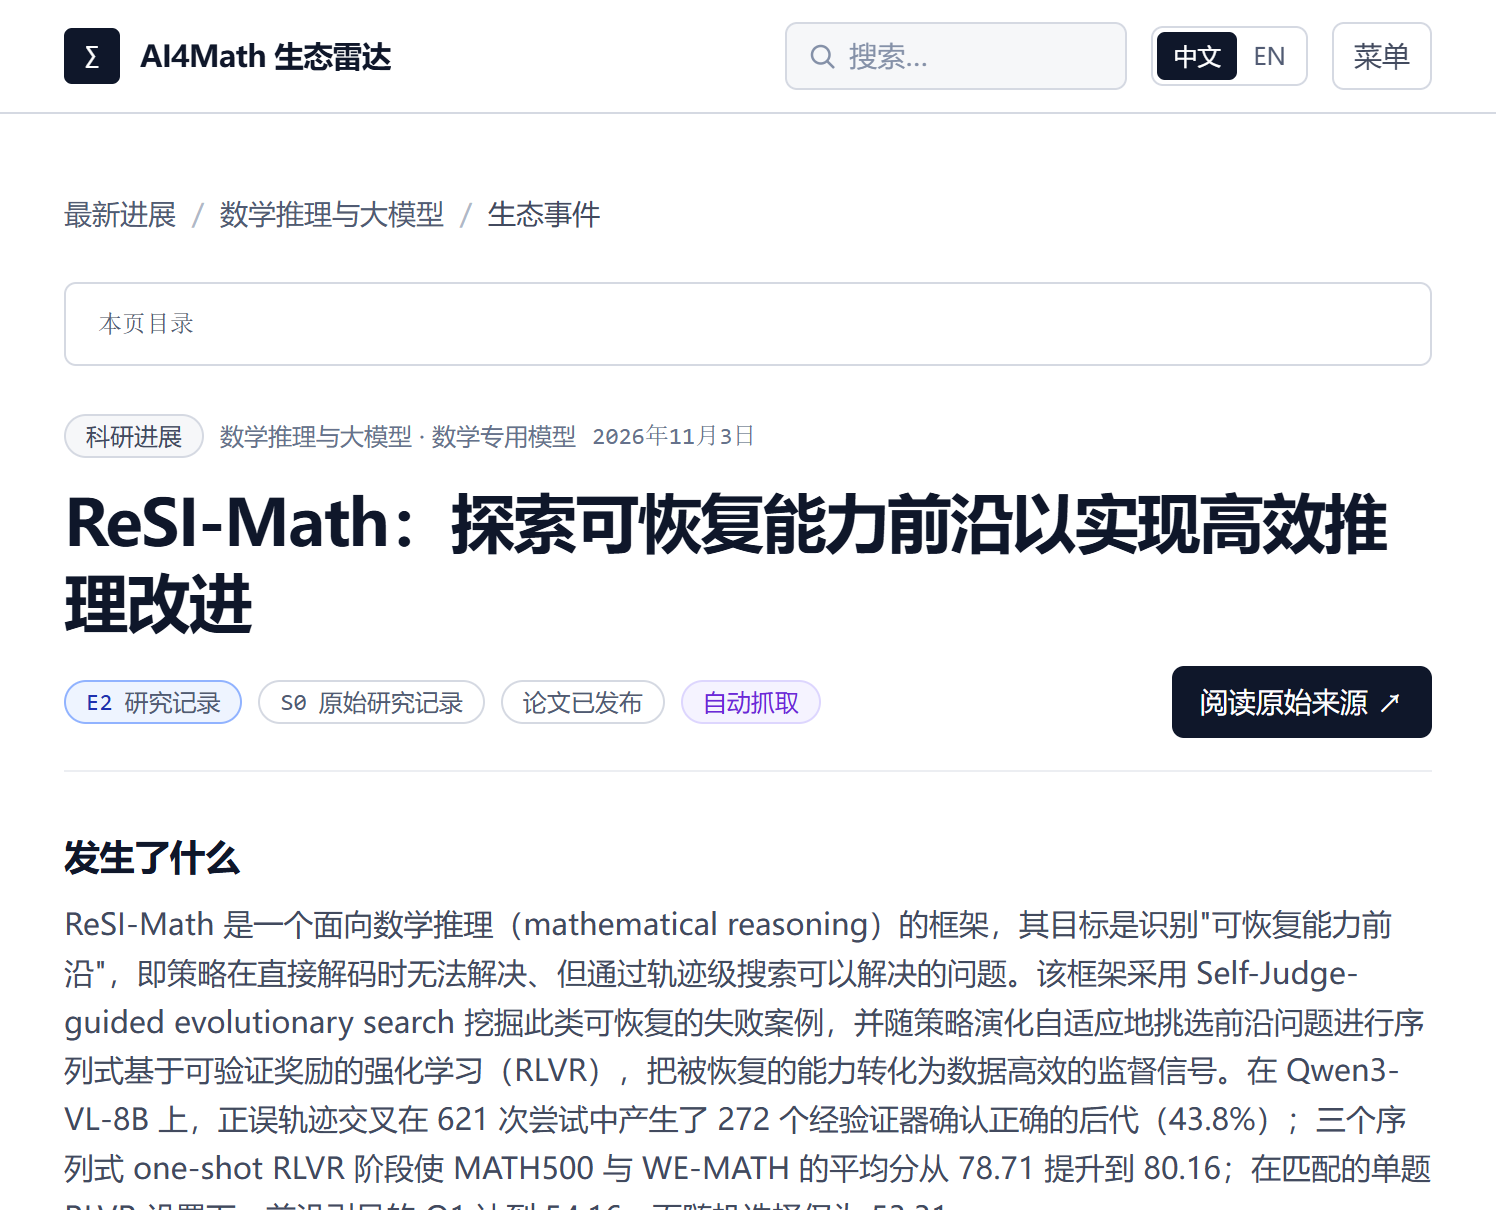
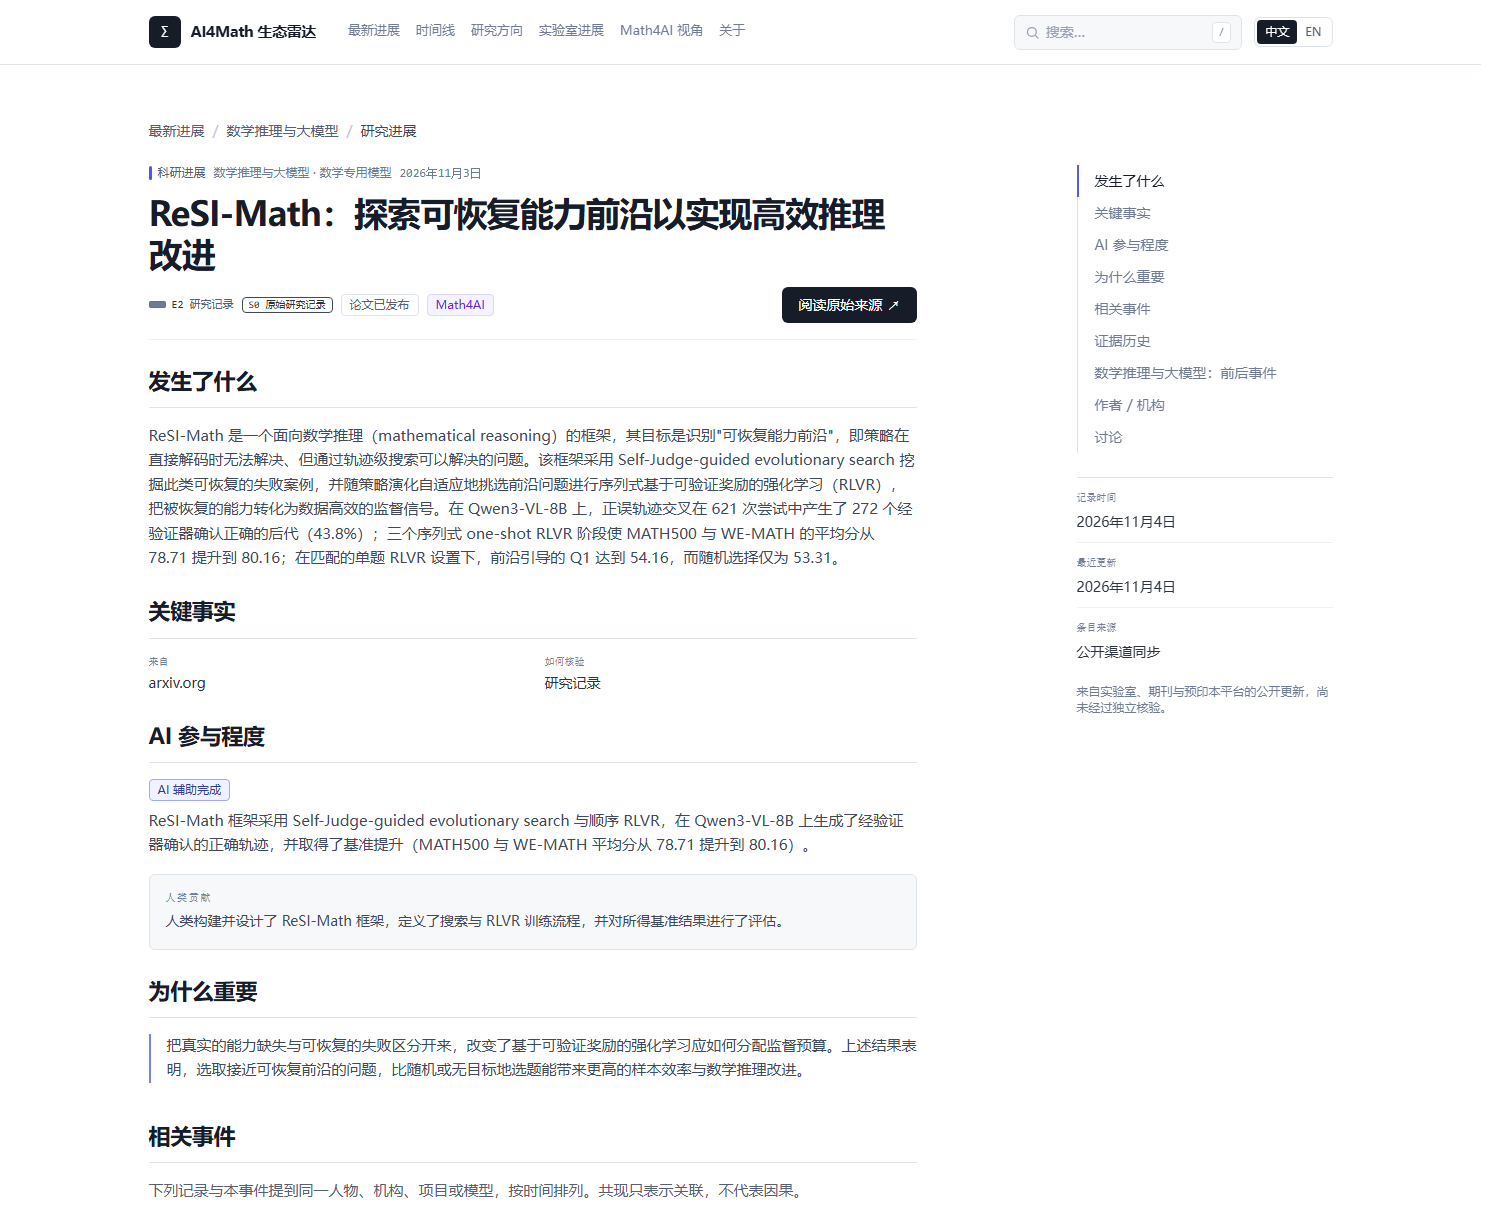
docs: refresh screenshots, figures and weekly report
Re-shoot home, timeline and detail at 1496x1210; README now reports 714
events (583 ingested), the live Pages link, AI involvement and four lab
tracks. Add the 2026-11-13 weekly report.

diff --git a/docs/weekly-report-2026-11-13.md b/docs/weekly-report-2026-11-13.md
@@ -1,0 +1,78 @@
+# AI4Math 周报（2026 年 11 月 9 日—11 月 13 日）
+
+## 一、AI4Math 生态雷达
+
+[项目地址（Gitee）](https://gitee.com/testimoa/ai4math-radar)，分支为 `main`；线上站点为
+<https://irrelaceable.github.io/ai4math-radar/>（GitHub Pages，含 `/labs`）。
+
+本周完成方向轴与引用脉络上线、实验室研究档案发布、全站体检与采集扩量，并把 Gitee 追平 GitHub；
+首页改版、截图与 README 更新已完成，尚未提交。
+
+| 任务 | 负责人 | 结果 |
+| --- | --- | --- |
+| 方向轴与引用脉络上线 | 雷（IRrelaceable） | 详情页新增「引用关系」（前作 / 后续，由 OpenAlex 参考文献回填）与「相关事件」两章；方向轴 ai4math / math4ai / 双向兼有上线，方向徽章对称标注。提交 `7a95410`。 |
+| 方向轴复核与存量清理 | 雷（IRrelaceable） | **552 条科研事件全部判定，改判 153 条（28%）**；按优先级回源 150 条，金标准定判写入 **21 条**。报告存于 `docs/direction-*-2026-11-09.*`。 |
+| 实验室研究档案 | 雷（IRrelaceable） | `/labs` 上线 **52 条**前沿实验室档案（2020–2026，**116 个原始来源链接**），按 OpenAI / Anthropic / 联合 / 独立四轨归属、按年分组；档案独立建模，不并入事件数据集；新增 `records.test.ts` 校验。提交 `baf8cb1`。 |
+| 采集扩量与来源适配 | 雷（IRrelaceable） | 新增 sitemap 适配，无 feed 的站点也能采集；采集源加入指数退避（6h → 48h）；本周自动采集把数据集从 **685 条扩到 714 条（+29）**，其中 583 条由采集管线自动收录。 |
+| 全站体检与发布配置 | 雷（IRrelaceable） | 中英文字典键一致性改为编译期校验；站点绝对地址与 favicon 按部署子路径自动推导；`/sources`、`/research-map` 改为直达；360px 页头与英文站横向溢出修复；切换语言保留筛选与紧凑视图（提交 `8f7ee71`）。 |
+| 读者可见性整改 | 雷（IRrelaceable） | 档案页与详情页 **23 处**运维 / 编辑措辞改为读者语言，核查原文收进折叠，英文站不再展示未翻译中文；讨论区保持不可用占位。 |
+| Gitee 同步 | 雷（IRrelaceable） | 发现 Gitee 落后 GitHub **22 个提交**，已快进推送到 `4ac67ec`，本地、GitHub、Gitee 三者一致。 |
+
+已修复的问题：
+
+| 问题 | 修复人 | 结果或记录 |
+| --- | --- | --- |
+| GitHub 自动采集只落在 GitHub，Gitee 长期落后 | 雷 | 已补齐 22 个提交至 `4ac67ec`；自动镜像方案待评估。 |
+| 详情页面包屑不区分事件类型 | 雷 | 按研究方向区分「研究进展 / 生态事件」，已上线。 |
+| 英文站事件卡与相关事件列表横向溢出；360px 页头溢出 | 雷 | 卡片网格基础列改为 `minmax(0,1fr)`，手机端只显示字标。 |
+| 切换语言后筛选条件与紧凑视图被重置 | 雷 | 已保留原状态，提交 `8f7ee71`。 |
+
+本周完成、尚未提交：
+
+| 任务 | 负责人 | 结果 |
+| --- | --- | --- |
+| 首页封面式改版 | 雷（IRrelaceable） | 首页改为封面式报头（两段式标题、右侧总量与方向计数、顶部更新日期），类别构成改为报头下方横条，其后依次为双线最新动态、活跃方向与 90 天动量模块；本地 1496×1210 实测。 |
+| 截图与 README 同步 | 雷（IRrelaceable） | 重拍首页、时间线、详情三张 1496×1210 截图；README 数据更新为 **714 条 / 583 条自动收录**，补线上站点、AI 参与程度与四轨归属表述。 |
+| 仓库清理 | 雷（IRrelaceable） | 本地生成物从 2.8 GB 清理到 868 MB；删除 5 个已完成的一次性修复脚本与 3 个无引用类型导出；typecheck 通过，25 个测试文件共 189 项全部通过。 |
+
+本周未完成：
+
+- 方向轴剩余约 350 条事件待额度恢复后继续复核；
+- Gitee 尚无自动镜像，暂由手动推送同步；
+- 首页改版与文档、清理改动仍待提交。
+
+## 二、上下文压缩与模型接入
+
+围绕“两个高斯混沌之和的定量四阶矩界”，完成压缩技术调研、汇报材料和一轮实跑，继续排查长期卡住的原因。
+
+| 任务 | 负责人 | 结果 |
+| --- | --- | --- |
+| 整理压缩技术并制作汇报材料 | 成家旭 | 梳理科研界的文本压缩、推理状态压缩、外部记忆及 KV 缓存压缩，以及 OpenAI、Anthropic 的长任务处理方式；完成 **25 页 PPT、逐页讲稿和资料索引**。 |
+| 实现并测试 128K 压缩方案 | 成家旭 | 在 Gitee GLM-5.3 上实现“原题常驻、逐字摘录、外部原文库、按需回读”，保存原文位置和校验信息；完成 **83 项程序检查**，验证摘录与实际输入一致。 |
+| 核查压缩后的续解效果 | 成家旭 | 发现正确的局部恒等式和反例，但核心混合项估计仍未完成；同时查到摘要遗漏推导依赖、反复重证基础结论等问题。**本轮尚无完整解答通过核验**，不能把卡点全部归因于 128K。 |
+| 排查内部 GLM 网关访问 | 成家旭 | 核对网络连通和带认证的 API 请求，结合 IT 反馈确认办公网络不在允许访问区域；已明确需使用获准区域的服务器，内部接口尚未打通。 |
+
+## 三、TAG 与裸 API 数学对照实验
+
+使用硅基流动 GLM-5.3，从此前卡住的同一道题开始。题目分解、推导和自审由参测模型完成，成家旭负责实验接入、记录、故障排查及独立核验。
+
+| 任务 | 负责人 | 结果 |
+| --- | --- | --- |
+| 搭建两组对照流程 | 成家旭 | 接入 TAG 原生任务图和裸 API，统一模型、题目与评价规则；按最新要求，仅比较数学结果，系统失败单独记录，不计数学错误。 |
+| 建立运行与资源记录 | 成家旭 | 保存实际请求、分段输出、token、耗时及异常，隔离两组材料，避免答案互相影响；复用已完成响应时单独记账，避免重复调用和费用统计。 |
+| 核查接口容量与 token 口径 | 成家旭 | 确认硅基流动接口实际接受约 **19.5 万输入 tokens**，尚未测得最大上下文；区分输入窗口、输出额度和思考 token，避免沿用旧平台的 128K 限制判断。 |
+| 独立检查裸 API 答卷 | 成家旭 | 裸组在断流后使用自身材料续接，产出完整答卷；独立核验发现核心估计存在反例，判定**该份证明错误**，不等于原命题错误。 |
+| 排查并修复 TAG 兼容问题 | 成家旭 | 修复思考 token 被误计入正文额度、目标审查拒绝时异常处理报错两类问题，并完成离线验证；修改放在隔离副本中，保留原始程序和运行记录。 |
+| 跟进 TAG 解题与最新故障 | 成家旭 | 新计划已通过 TAG 内部目标与一致性审查，进入首个子任务；最新输出因达到 **8192 正文 tokens** 被截断，未形成完整答卷。已保存现场并准备续接方案，修复尚未完成，当前不能判断 TAG 是否优于裸 API。 |
+
+## 四、下周计划
+
+| 任务 | 负责人 | 预期结果 |
+| --- | --- | --- |
+| 提交并发布本周改动 | 雷（IRrelaceable） | 首页改版、三张截图、README 与仓库清理进入 `main`，同步 GitHub Pages 与 Gitee。 |
+| 继续生态雷达采集与复核 | 雷（IRrelaceable） | 自动采集按 6 小时节奏继续扩量；额度恢复后补齐剩余约 350 条方向轴复核。 |
+| 评估 Gitee 自动镜像 | 雷（IRrelaceable） | 给出 GitHub → Gitee 自动同步方案和配置步骤，避免再次出现长时间落后。 |
+| 完成 TAG 截断恢复 | 成家旭 | 完善输出格式提示和续接流程，离线验证后继续已有任务，避免从头重跑和重复计费。 |
+| 完成同题数学结果对照 | 成家旭 | TAG 交卷后独立核验，与已封存的裸 API 答卷比较；分别报告数学正确性、交付情况、token 和耗时。 |
+| 补做压缩效果对照 | 成家旭 | 对比“最近推导保留全文”和“最近推导也压缩”两种方式，检查关键条件、纠错和证明依赖的保留情况。 |
+| 完善报告并推进后续测试 | 成家旭 | 补齐单题报告中的模型自主分解、证明产物、资源记录和核验结论；满足当前轮次停止或推进条件后，再按既定顺序测试后续题目及模型。 |

diff --git a/README.en.md b/README.en.md
@@ -7,7 +7,7 @@
 Turning progress scattered across arXiv, conference proceedings, lab blogs, university news
 and foundation announcements into one filterable, traceable, navigable timeline.
 
-**English** · [中文](README.md) · [Weekly updates](project_management.md)
+**English** · [中文](README.md) · [Weekly updates](project_management.md) · [Live site](https://irrelaceable.github.io/ai4math-radar/)
 
 [![Next.js](https://img.shields.io/badge/Next.js-14.2-000000?logo=nextdotjs&logoColor=white)](https://nextjs.org/)
 [![React](https://img.shields.io/badge/React-18-61DAFB?logo=react&logoColor=black)](https://react.dev/)
@@ -34,7 +34,7 @@ into a single dataset. Every event keeps its original source link, evidence leve
 verification record. Filter by area, class, time or evidence level, or follow a field on
 the timeline to see how it got here.
 
-Current dataset: **685 events** (558 collected automatically by the ingest pipeline), dating back to **1956**, across **6 research areas**.
+Current dataset: **714 events** (583 collected automatically by the ingest pipeline), dating back to **1956**, across **6 research areas**.
 
 ## Design principles
 
@@ -72,7 +72,7 @@ fields stay empty; items without a confirmable source URL are dropped.
 | Feed | `/latest` | Class / area / time / evidence / tier filters, search, card and compact views |
 | Timeline | `/timeline` | Year-by-year density overview and class mix; the three newest months open by default, sparse years open fully, dense months group by day; search, deep links, class filter |
 | Areas | `/topics` · `/topics/[topic]` | Direction-axis mix, 12-month trend, sub areas and latest records for six areas; detail pages add trends, papers, models, benchmarks and events |
-| Event detail | `/research/[slug]` | What happened, key facts, evidence and status, related events, plus **citation links** and **related events** as separate sections |
+| Event detail | `/research/[slug]` | What happened, key facts, AI involvement, evidence and status, related events, plus **citation links** and **related events** as separate sections |
 | Search | `/search` | Results grouped by event, paper, area, model and benchmark |
 | Lab track | `/labs` | 52 frontier-lab archive records (2020–2026, grouped by year, filterable by OpenAI / Anthropic / joint / independent attribution; four batch-sample entries are tagged and counted once; each shows its result and source links, and the Chinese site keeps the verbatim verification notes behind a disclosure), plus recent lab updates below |
 | Math4AI entry | `/math4ai` | Direction-axis feed: events where mathematics is the method or theory and the object is the AI system (co-primary included) |
@@ -101,10 +101,10 @@ several records share one paper URL (entries 14–17 all come from `arXiv:2511.1
 and 45–48 are samples of the same 722-manuscript batch), so URL-based deduplication
 would silently drop them. Archive records cross-link to site events citing the same
 source; recent lab updates are listed separately below. **The public view shows date, attribution, result and source links**, with record counts, year grouping and an attribution filter; the editorial conventions and collection mechanism are not reader-facing. Every archive entry and every event page also carries a discussion slot that is not open yet.
-The archive distinguishes in-house work, third-party use of a lab's models,
-collaborations, independent evaluations and later independent follow-ups;
-"manuscript claims", "candidate proof" and "under review" do not mean independent
-verification. `records.test.ts` guards the dataset's integrity.
+The archive groups records into four tracks — OpenAI-related, Anthropic-related, joint,
+and independent third-party evaluation; "manuscript claims", "candidate proof" and
+"under review" do not mean independent verification. `records.test.ts` guards the
+dataset's integrity.
 
 **Trust model**: evidence levels E0–E4 (independent replication / testable artifact /
 research record / originator claim / no evidence) and source tiers S0–S4 are labelled

diff --git a/README.md b/README.md
@@ -7,7 +7,7 @@
 把散落在 arXiv、会议论文集、实验室博客、大学新闻与基金会公告里的进展，
 整理成一条可筛选、可追溯、可定位的生态时间线。
 
-[中文](README.md) · [English](README.en.md) · [功能更新](project_management.md)
+[中文](README.md) · [English](README.en.md) · [功能更新](project_management.md) · [线上站点](https://irrelaceable.github.io/ai4math-radar/)
 
 [![Next.js](https://img.shields.io/badge/Next.js-14.2-000000?logo=nextdotjs&logoColor=white)](https://nextjs.org/)
 [![React](https://img.shields.io/badge/React-18-61DAFB?logo=react&logoColor=black)](https://react.dev/)
@@ -32,7 +32,7 @@ AI4Math 的进展不只发生在论文里。新方法出现、研究者流动、
 证据等级与核验记录。你可以按方向、类型、时间、证据等级筛选，也可以在时间线上看一个领域如何
 一步步走到今天。
 
-当前数据集：**685 条事件**（其中 558 条由采集管线自动收录），最早可追溯到 **1956 年**，覆盖 **6 个研究方向**。
+当前数据集：**714 条事件**（其中 583 条由采集管线自动收录），最早可追溯到 **1956 年**，覆盖 **6 个研究方向**。
 
 ## 核心设计
 
@@ -68,7 +68,7 @@ AI4Math 的进展不只发生在论文里。新方法出现、研究者流动、
 | 事件流 | `/latest` | 按类型 / 研究领域 / 时间 / 证据 / 来源筛选，支持搜索、卡片与紧凑两种视图 |
 | 时间线 | `/timeline` | 逐年密度概览与年度类别构成；默认展开最近 3 个月，稀疏年份全展开、密集月按日分组；支持关键词搜索、深链与按类别筛选 |
 | 研究方向 | `/topics` · `/topics/[topic]` | 六个方向的方向轴构成、近 12 个月走势、子方向与最近记录；详情页含趋势、论文、模型、基准与事件列表 |
-| 事件详情 | `/research/[slug]` | 发生了什么、关键事实、证据与状态、同类事件，以及分开成章的**引用关系**与**相关事件** |
+| 事件详情 | `/research/[slug]` | 发生了什么、关键事实、AI 参与程度、证据与状态、同类事件，以及分开成章的**引用关系**与**相关事件** |
 | 全站搜索 | `/search` | 按事件、论文、方向、模型与基准分组返回结果 |
 | 实验室进展 | `/labs` | 52 条前沿实验室研究档案（2020–2026，按年份分组、可按归属筛选；默认显示成果与来源链接，核查原文收在折叠内），下方另列近期动态 |
 | Math4AI 入口 | `/math4ai` | 按方向轴过滤的信息流：数学作为方法或理论、研究对象是 AI 系统的事件（含双向兼有） |
@@ -87,7 +87,7 @@ AI4Math 的进展不只发生在论文里。新方法出现、研究者流动、
 核查细节保留中文原文。它是独立策展数据，**不并入事件数据集**：多条记录共用同一篇论文或同一批
 手稿（例如 14–17 条同出 `arXiv:2511.16072`，45–48 条是 722 篇集合的展开样例），并入会按 URL
 去重而丢失条目。档案按来源 URL 与站内已有事件互链，近期动态单独列在下方。**前台默认只呈现日期、归属、结果与来源链接**，并给出条目计数、年份分组与归属筛选；九项核查原文与阅读说明收在折叠里，英文站不展示未翻译的中文核查原文；编辑口径与采集机制不对外展示。档案条目与事件详情页均保留讨论区入口（尚未开放）。
-档案按归属分为四条线：OpenAI 相关、Anthropic 相关、两家联合支持、独立第三方评测与消化；
+档案按归属分为四条线：OpenAI 相关、Anthropic 相关、联合支持、独立第三方评测与消化；
 45–48 条标为「样例」，说明它们是同一批手稿的抽样，不另计为独立成果。「手稿声称」
 「候选证明」「待持续审查」不等于已获独立验证。数据完整性由 `records.test.ts` 校验。
 
